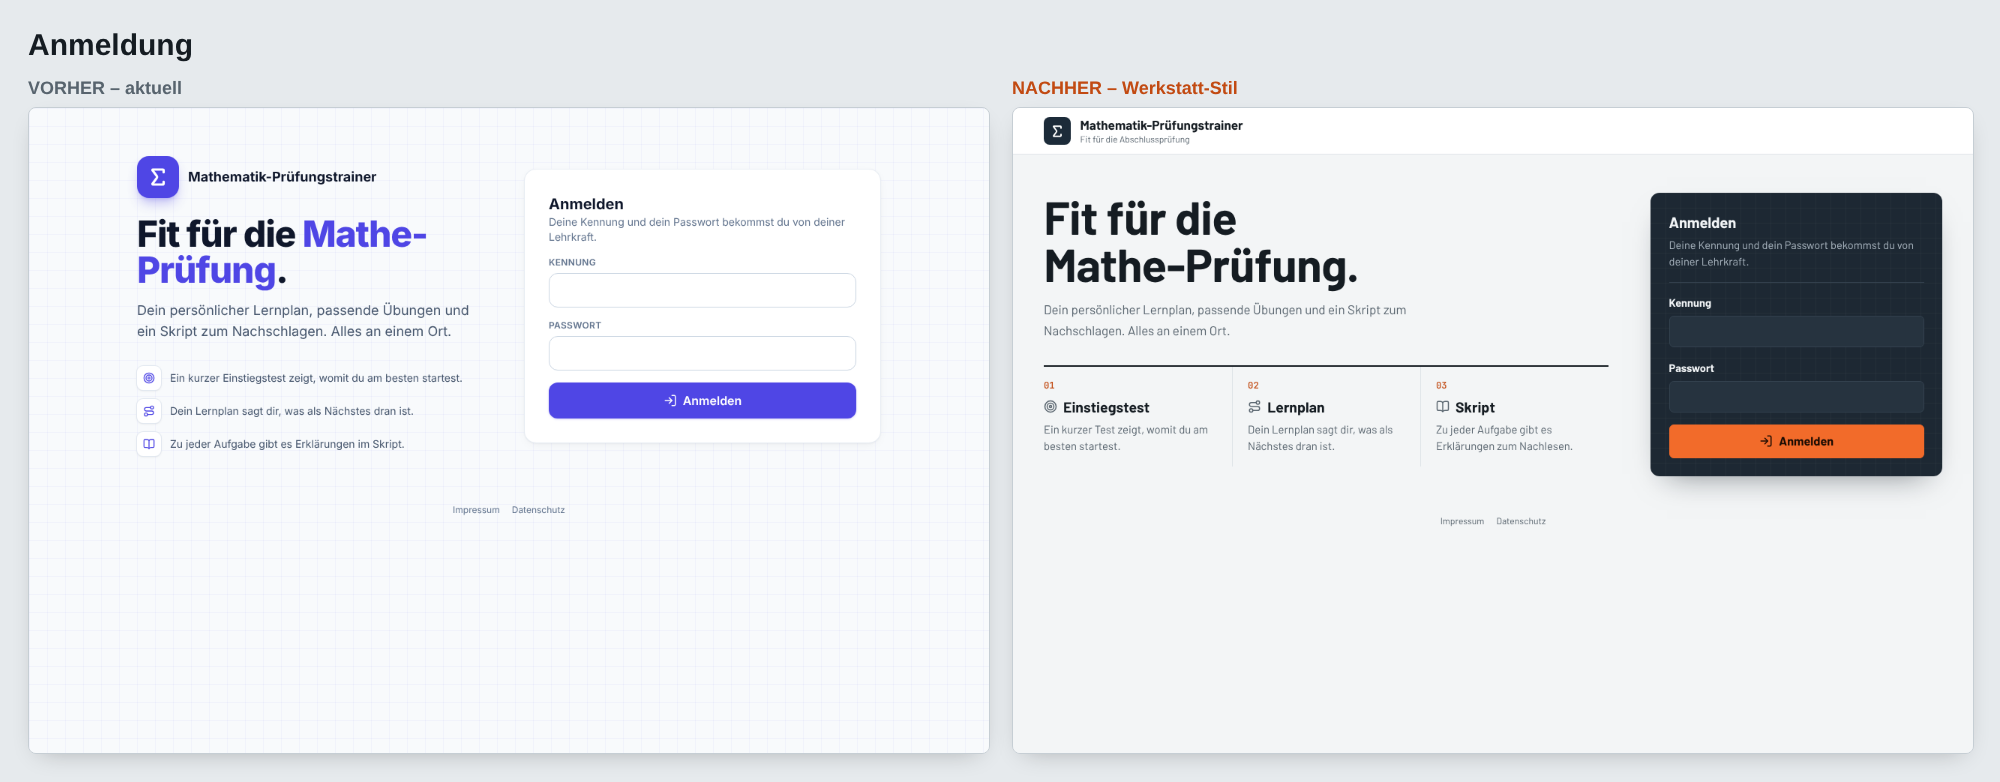
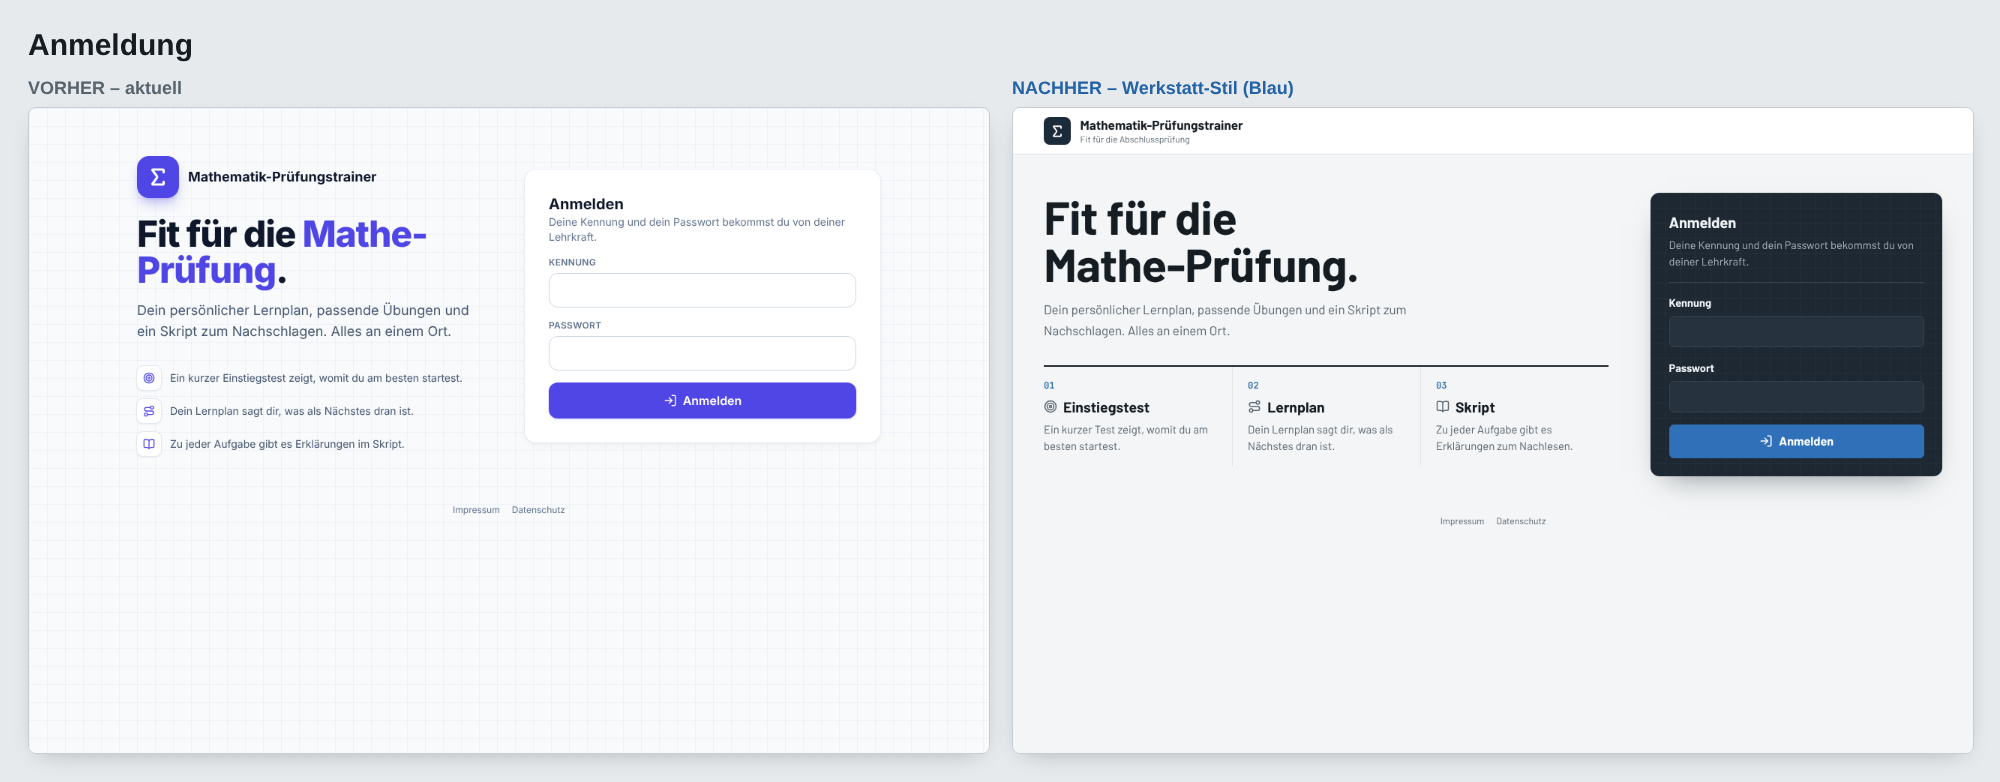
v0.7.1 (Vorschau): Akzentfarbe Blau statt Orange
Werkstatt-Blau (#2463A6) für Knöpfe, Reiter-Unterstrich, Links und Hilfe-Knopf.
Vorschaubilder neu erstellt, dazu ein Farbvergleich Orange/Blau.

Claude-Session: https://claude.ai/code/session_014tAQSdAhfk94f3cuzBjiAA

Changed region(s): [[0.837, 0.5217, 0.961, 0.6138], [0.496, 0.0921, 0.651, 0.1228]]

diff --git a/client/src/index.css b/client/src/index.css
@@ -11,17 +11,17 @@
   --font-sans: 'Bahnschrift', 'Barlow', 'Segoe UI', -apple-system, BlinkMacSystemFont, Roboto, Arial, sans-serif;
   --font-mono: 'JetBrains Mono Variable', ui-monospace, SFMono-Regular, 'SF Mono', Consolas, monospace;
 
-  /* Akzent: Werkstatt-Orange (600 = Knöpfe/Text, 400 = kräftige Striche) */
-  --color-brand-50: #fdece2;
-  --color-brand-100: #fbdac7;
-  --color-brand-200: #f6b896;
-  --color-brand-300: #f49566;
-  --color-brand-400: #f26b2a;
-  --color-brand-500: #dc5a1c;
-  --color-brand-600: #c24a12;
-  --color-brand-700: #a63e0e;
-  --color-brand-800: #86320c;
-  --color-brand-900: #5e230a;
+  /* Akzent: Werkstatt-Blau (600 = Knöpfe/Text, 400 = kräftige Striche) */
+  --color-brand-50: #e7eff8;
+  --color-brand-100: #d0e0f2;
+  --color-brand-200: #a7c5e7;
+  --color-brand-300: #75a4d9;
+  --color-brand-400: #3f84cf;
+  --color-brand-500: #2f70b8;
+  --color-brand-600: #2463a6;
+  --color-brand-700: #1d5189;
+  --color-brand-800: #18426f;
+  --color-brand-900: #12304f;
 
   /* Kühle Grautöne der Werkstatt-Seite statt Tailwind-Slate */
   --color-slate-50: #f3f5f6;
@@ -81,7 +81,7 @@ h1, h2, h3, h4 { letter-spacing: -.01em; text-wrap: balance; }
   background-image: linear-gradient(rgb(255 255 255 / .035) 1px, transparent 1px), linear-gradient(90deg, rgb(255 255 255 / .035) 1px, transparent 1px);
   background-size: 20px 20px;
 }
-/* Reiter mit orangem Unterstrich */
+/* Reiter mit blauem Unterstrich */
 @utility tab {
   @apply relative inline-flex min-h-[50px] items-center gap-2 whitespace-nowrap px-2.5 text-[.92rem] font-medium text-slate-500 transition-colors hover:text-slate-900;
   &::after { content: ''; position: absolute; left: 10px; right: 10px; bottom: -1px; height: 2px; background: var(--color-brand-400); transform: scaleX(0); transition: transform .25s cubic-bezier(.16,1,.3,1); }

diff --git a/client/src/pages/Login.jsx b/client/src/pages/Login.jsx
@@ -72,7 +72,7 @@ export default function Login() {
             <input id="p" type="password" className="input border-night-line bg-night-2 text-night-ink" autoComplete="current-password" value={form.password} onChange={(e) => setForm({ ...form, password: e.target.value })} required />
           </div>
           <ErrorBox error={error} />
-          <button className="btn min-h-11 w-full border-brand-400 bg-brand-400 text-base font-bold text-[#1b0c03] hover:brightness-105" disabled={busy}><LogIn size={18} /> Anmelden</button>
+          <button className="btn min-h-11 w-full border-brand-500 bg-brand-500 text-base font-bold text-white hover:bg-brand-600" disabled={busy}><LogIn size={18} /> Anmelden</button>
         </form>
       </div>
       <LegalLinks className="pb-8" />

diff --git a/client/src/components/Layout.jsx b/client/src/components/Layout.jsx
@@ -29,7 +29,7 @@ export function HelpButton() {
       target="_blank"
       rel="noopener noreferrer"
       onClick={onClick}
-      className="btn border-brand-400 bg-brand-400 px-3.5 font-bold text-[#1b0c03] hover:brightness-105"
+      className="btn border-brand-500 bg-brand-500 px-3.5 font-bold text-white hover:bg-brand-600"
     >
       <LifeBuoy size={18} />
       <span className="hidden sm:inline">Benötigst du Hilfe?</span>

diff --git a/docs/ui-vorschau/README.md b/docs/ui-vorschau/README.md
@@ -4,8 +4,8 @@ Vorher-Nachher-Bilder der wichtigsten Seiten (links aktuell, rechts neu). `00-vo
 
 Übernommen aus der 3D-Druck Werkstatt:
 - Schrift Bahnschrift bzw. Barlow, Zahlen und Nummern in JetBrains Mono
-- kühle Grautöne (`#F3F5F6` Hintergrund, `#151C22` Text) und Werkstatt-Orange (`#C24A12` / `#F26B2A`) statt Indigo
-- Kopfleiste über die volle Breite mit dunklem Logo-Quadrat, Reiter mit orangem Unterstrich, kleine Symbol-Knöpfe
+- kühle Grautöne (`#F3F5F6` Hintergrund, `#151C22` Text) und als Akzent das Werkstatt-Blau (`#2463A6`, wie „In Bearbeitung“ auf der 3D-Seite) statt Indigo. Die orange Variante zeigt `10-farbvergleich-…`
+- Kopfleiste über die volle Breite mit dunklem Logo-Quadrat, Reiter mit blauem Unterstrich, kleine Symbol-Knöpfe
 - Lehrkraft-Bereich: Reiter oben statt Seitenleiste
 - große Seitentitel, Abschnittsüberschriften mit kräftigem Strich darunter, nummerierte Schritte (`01 02 03`)
 - flache Karten (8 px Ecken, kein Schatten), dunkle Karte mit Raster für Countdown und Anmeldung
